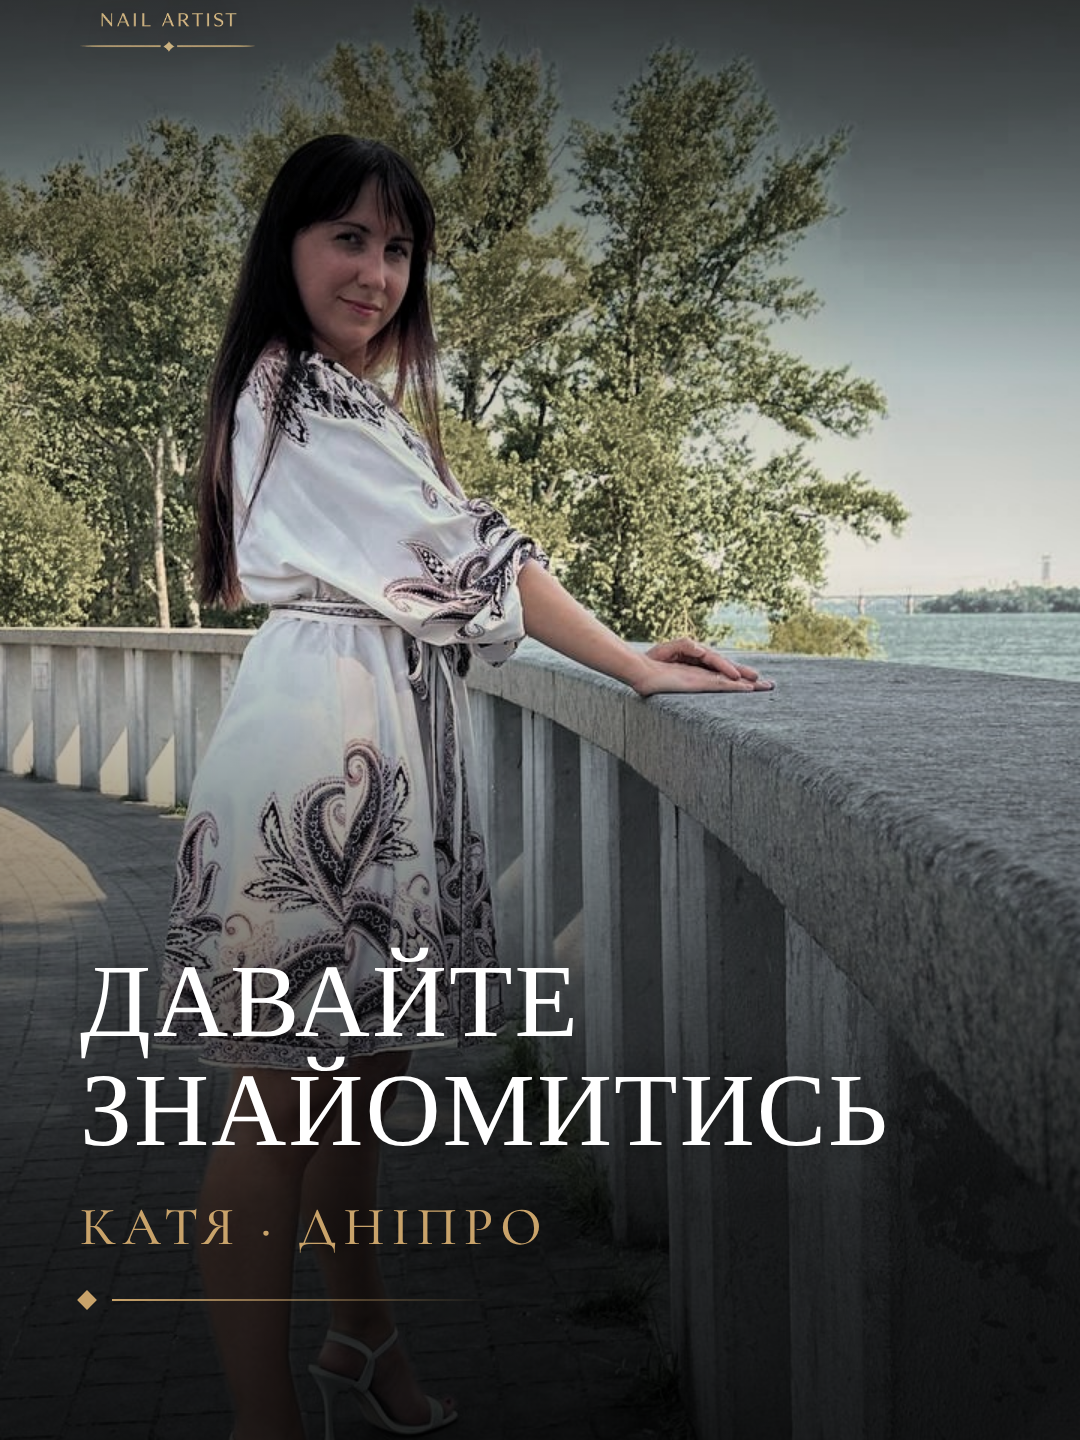
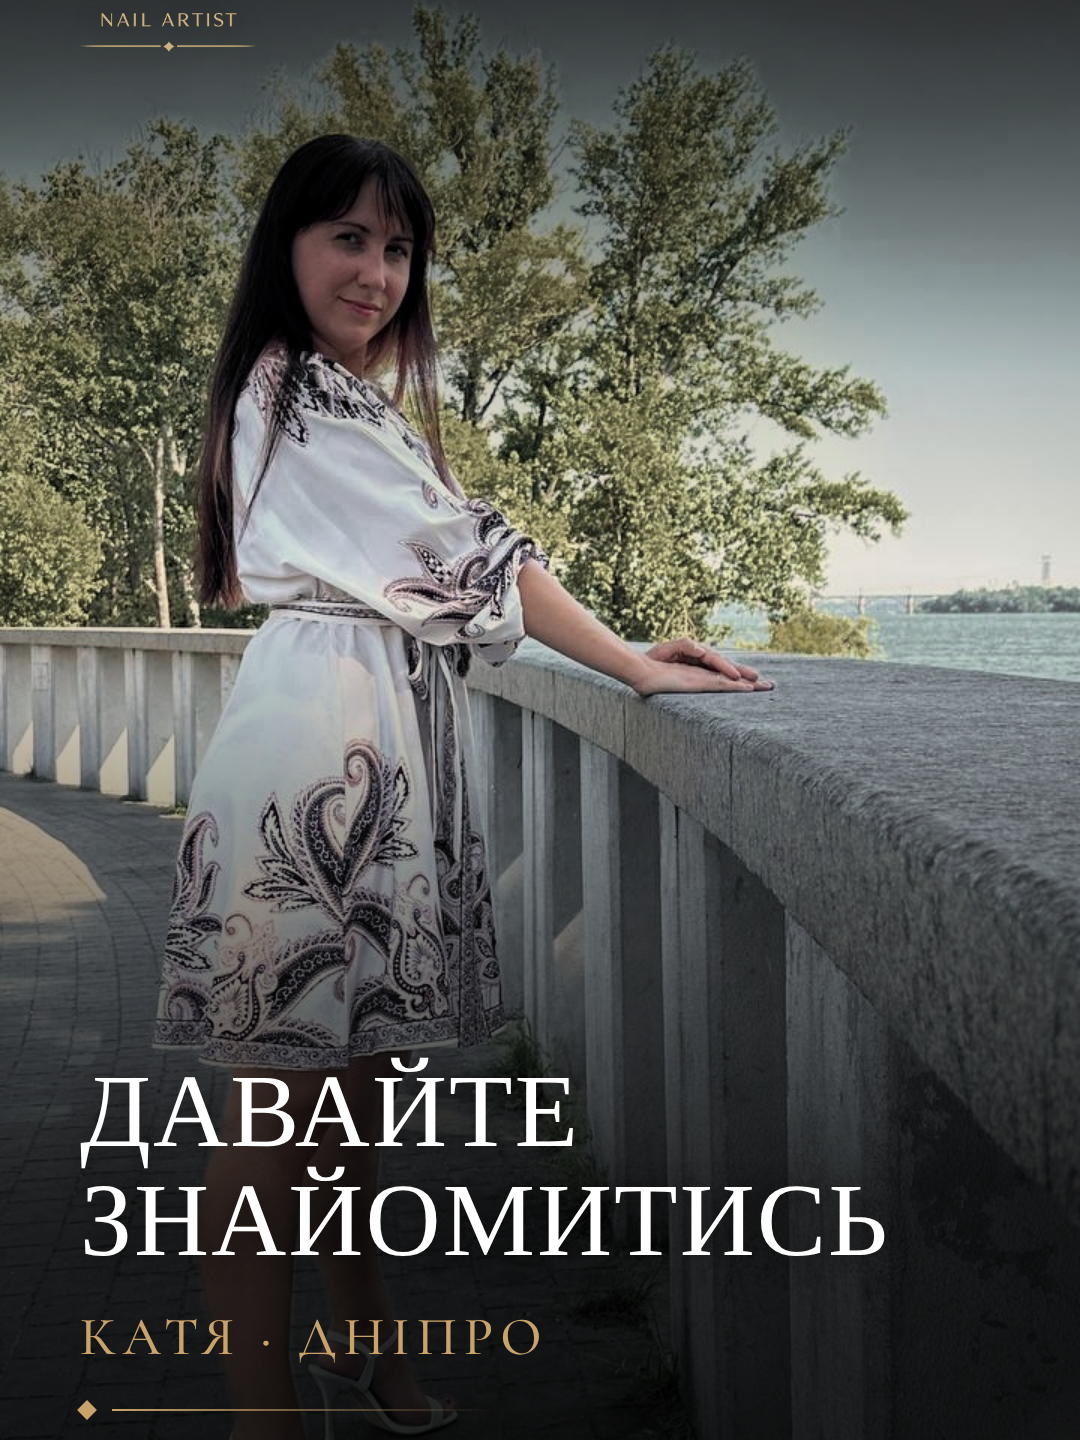
Intro Reels: cover title one line lower
Claude-Session: https://claude.ai/code/session_01YBhnYy5PA8K7Ga4B89nYdp

diff --git a/intro-katya/src/Cover.tsx b/intro-katya/src/Cover.tsx
@@ -63,7 +63,7 @@ export const Cover: React.FC<{
         position: "absolute",
         left: LEFT,
         right: 60,
-        top: 1190,
+        top: 1300,
         display: "flex",
         flexDirection: "column",
         gap: 26,
